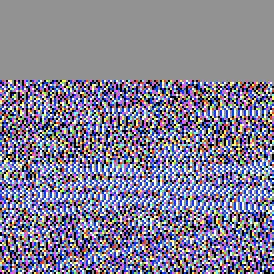
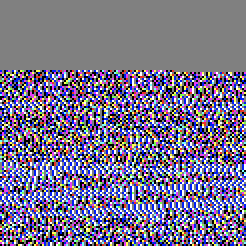
Alpha 2

diff --git a/Art2Bytes.swift b/Art2Bytes.swift
@@ -3,59 +3,78 @@ import Cocoa
 func art2binary(file: URL) {
     let image = NSImage(contentsOf: file)
     let img = NSBitmapImageRep(data: image!.tiffRepresentation!);
-    let white = NSColor(calibratedRed: 1, green: 1, blue: 1, alpha: 1)  // bit 0
-    let black = NSColor(calibratedRed: 0, green: 0, blue: 0, alpha: 1) // bit 1
-    let red = NSColor(calibratedRed: 1, green: 0, blue: 0, alpha: 1) // bit 2
-    let green = NSColor(calibratedRed: 0, green: 1, blue: 0, alpha: 1) // bit 3
-    let blue = NSColor(calibratedRed: 0, green: 0, blue: 1, alpha: 1) // bit 4
-    let purple = NSColor(calibratedRed: 1, green: 0, blue: 1, alpha: 1)  // bit 5
-    let yellow = NSColor(calibratedRed: 1, green: 1, blue: 0, alpha: 1)  // bit 6
-    let teal = NSColor(calibratedRed: 0, green: 1, blue: 1, alpha: 1)  // bit 7
-    let gray = NSColor(calibratedRed: 0.5, green: 0.5, blue: 0.5, alpha: 1)  // noBit
-    
-    let height = Int(image!.size.height)
-    let width = Int(image!.size.width)
-    
+    let height = Int(img!.size.height)
+    let width = Int(img!.size.width)
     var i = 0
-    for x in 0..<height {
-        for y in 0..<width {
-            image!.lockFocus()
-            let color = img!.colorAt(x: x, y: y)
-            image!.unlockFocus()
-            if color == white {
+    for y in (0..<height).reversed() {
+        for x in 0..<width {
+            print("x:\(x) y:\(y)")
+            let color = img!.colorAt(x: (x * 2), y: (y * 2) )
+            if color == NSColor.white {
                 print("0")
             }
-            else if color == black {
+            else if color == NSColor.black {
                 print("1")
             }
-            else if color == red {
+            else if color == NSColor.red {
                 print("2")
             }
-            else if color == green {
+            else if color == NSColor.green {
                 print("3")
             }
-            else if color == blue {
+            else if color == NSColor.blue {
                 print("4")
             }
-            else if color == purple {
+            else if color == NSColor.magenta {
                 print("5")
             }
-            else if color == yellow {
+            else if color == NSColor.yellow {
                 print("6")
             }
-            else if color == teal {
+            else if color == NSColor.cyan {
                 print("7")
             }
-            else if color == gray {
-                print("")
+            else if color == NSColor.gray {
+                print(" ")
             }
             else {
-                print(color)
-                print(white)
+                if CGFloat(color!.redComponent) > 0.9 && CGFloat(color!.greenComponent) > 0.9 && CGFloat(color!.blueComponent) > 0.9 {
+                    print("0")
+                }
+                else if CGFloat(color!.redComponent) < 0.1 && CGFloat(color!.greenComponent) < 0.1 && CGFloat(color!.blueComponent) < 0.1 {
+                    print("1")
+                }
+                else if CGFloat(color!.redComponent) > 0.9 && CGFloat(color!.greenComponent) < 0.2 && CGFloat(color!.blueComponent) < 0.2 {
+                    print("2")
+                }
+                else if CGFloat(color!.redComponent) < 0.5 && CGFloat(color!.greenComponent) > 0.9 && CGFloat(color!.blueComponent) < 0.3 {
+                    print("3")
+                }
+                else if CGFloat(color!.redComponent) < 0.1 && CGFloat(color!.greenComponent) < 0.2 && CGFloat(color!.blueComponent) > 0.9 {
+                    print("4")
+                }
+                else if CGFloat(color!.redComponent) > 0.9 && CGFloat(color!.greenComponent) < 0.3 && CGFloat(color!.blueComponent) > 0.9 {
+                    print("5")
+                }
+                else if CGFloat(color!.redComponent) > 0.9 && CGFloat(color!.greenComponent) > 0.9 && CGFloat(color!.blueComponent) < 0.4 {
+                    print("6")
+                }
+                else if CGFloat(color!.redComponent) < 0.6 && CGFloat(color!.greenComponent) > 0.9 && CGFloat(color!.blueComponent) > 0.9 && CGFloat(color!.redComponent) > 0.4 {
+                    print("7")
+                }
+                else if CGFloat(color!.redComponent) < 0.6 && CGFloat(color!.greenComponent) < 0.6 && CGFloat(color!.blueComponent) < 0.6 && CGFloat(color!.redComponent) > 0.4 && CGFloat(color!.greenComponent) > 0.4 && CGFloat(color!.blueComponent) > 0.4 {
+                    print(" ")
+                }
+                else {
+                    print("Red: \(color!.redComponent)")
+                    print("Green: \(color!.greenComponent)")
+                    print("Blue: \(color!.blueComponent)")
+                }
             }
             i += 1
         }
     }
+//    print("\(width) by \(height)")
 }
 
 let input = CommandLine.arguments[1]

diff --git a/Bytes2Art.swift b/Bytes2Art.swift
@@ -1,56 +1,43 @@
 import Cocoa
 
 func code2art(width: Int, height: Int, data: Data) -> NSImage {
-    let white = NSColor(calibratedRed: 1, green: 1, blue: 1, alpha: 1)  // bit 0
-    let black = NSColor(calibratedRed: 0, green: 0, blue: 0, alpha: 1) // bit 1
-    let red = NSColor(calibratedRed: 1, green: 0, blue: 0, alpha: 1) // bit 2
-    let green = NSColor(calibratedRed: 0, green: 1, blue: 0, alpha: 1) // bit 3
-    let blue = NSColor(calibratedRed: 0, green: 0, blue: 1, alpha: 1) // bit 4
-    let purple = NSColor(calibratedRed: 1, green: 0, blue: 1, alpha: 1)  //bit 5
-    let yellow = NSColor(calibratedRed: 1, green: 1, blue: 0, alpha: 1)  //bit 6
-    let teal = NSColor(calibratedRed: 0, green: 1, blue: 1, alpha: 1)  //bit 7
-    let clear = NSColor(calibratedRed: 0.5, green: 0.5, blue: 0.5, alpha: 1)  // noData
-    
     let rectSize = NSSize(width: width, height: height) // size of code page
     
     let bit = NSImage(size: rectSize) // bit
-    var color: NSColor = white
+    var color: NSColor = NSColor.gray
     var x = 0
     var y = 0
     bit.lockFocus()
-    clear.drawSwatch(in: NSMakeRect(CGFloat(x),CGFloat(y),CGFloat(width),CGFloat(height)))
+    color.drawSwatch(in: NSMakeRect(CGFloat(x),CGFloat(y),CGFloat(width),CGFloat(height)))
     bit.unlockFocus()
 
     for s in data {
         let byte = String(s, radix: 8)
         for b in byte {
-            print(b)
             if b == "0" {
-                color = white
+                color = NSColor.white
             }
             else if b == "1" {
-                color = black
+                color = NSColor.black
             }
             else if b == "2" {
-                color = red
+                color = NSColor.red
             }
             else if b == "3" {
-                color = green
+                color = NSColor.green
             }
             else if b == "4" {
-                color = blue
+                color = NSColor.blue
             }
             else if b == "5" {
-                color = purple
+                color = NSColor.magenta
             }
             else if b == "6" {
-                color = yellow
+                color = NSColor.yellow
             }
             else if b == "7" {
-                color = teal
+                color = NSColor.cyan
             }
-
-            print(b)
             bit.lockFocus()
             color.drawSwatch(in: NSMakeRect(CGFloat(x),CGFloat(y),1,1))
             bit.unlockFocus()
